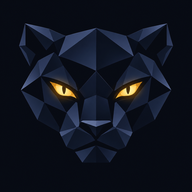
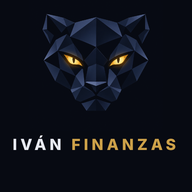
Splash de Android con pantera + nombre; se elimina la segunda pantalla de carga en la app instalada
Claude-Session: https://claude.ai/code/session_019ADEvJKmEoA5rpyyFfjPYD

Changed region(s): [[0.0625, 0.0625, 0.9375, 0.8438]]

diff --git a/ivan-finanzas/index.html b/ivan-finanzas/index.html
@@ -917,15 +917,9 @@
     }
     #splashScreen .logo-mark { width: 100%; height: 100%; }
     .splash-word { position: absolute; left: 0; right: 0; top: calc(50% + 52px + 22px); text-align: center; animation: splashWord 0.8s var(--ease) 0.2s both; }
-    /* App instalada: la pantera se muestra del mismo tamaño y lugar que la de arranque de Android, para que se lean como una sola pantalla */
+    /* App instalada: la pantalla de arranque de Android (ícono con pantera + nombre) ya hace de splash; no se muestra una segunda */
     @media (display-mode: standalone), (display-mode: fullscreen) {
-      #splashScreen .logo-tile {
-        position: absolute; left: 50%; top: calc(50% + 6px); transform: translate(-50%, -50%);
-        width: min(54vw, 222px); height: min(54vw, 222px);
-        background: none; border: 0; border-radius: 0; box-shadow: none; mix-blend-mode: lighten;
-      }
-      #splashScreen .logo-tile::after { display: none; }
-      .splash-word { top: calc(50% + 132px); }
+      #splashScreen { display: none; }
     }
     .splash-word .name { font-size: 20px; font-weight: 800; letter-spacing: 5px; color: #e8eaf1; }
     .splash-word .name span { color: #cda149; }

diff --git a/ivan-finanzas/sw.js b/ivan-finanzas/sw.js
@@ -1,7 +1,7 @@
 /* Iván Finanzas — service worker: la app abre sin internet y se actualiza sola.
    Tus datos NO viven aquí (siguen en el almacenamiento del navegador); esto solo guarda los archivos de la app. */
-const CACHE = 'if-app-v5.8.11';
-const ARCHIVOS = ['./', './index.html', './manifest.json', './icon-192.png', './icon-512.png', './blank-192.png', './blank-512.png',
+const CACHE = 'if-app-v5.8.12';
+const ARCHIVOS = ['./', './index.html', './manifest.json', './icon-192.png', './icon-512.png',
   './icon-maskable-512.png', './favicon-64.png', './apple-touch-icon.png'];
 
 self.addEventListener('install', e => {
